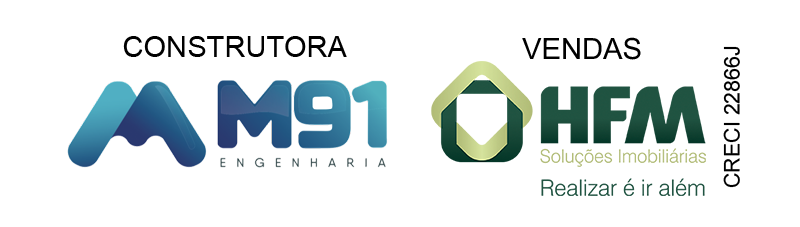
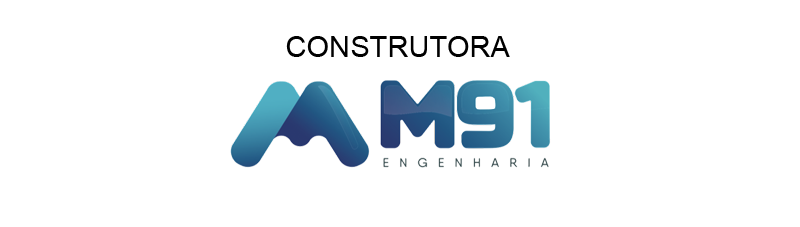
lucca 2

Changed region(s): [[0.0625, 0.1542, 0.9375, 0.8634]]

diff --git a/google.html b/google.html
@@ -137,61 +137,29 @@ a:link {
 		</div></div></header>
 			<div class="b6">
 	<div class="wrapper">
-	<h2>O Melhor Empreendimento do Fragata!</h2>
-			<h2>+de 340 Clientes Com Financiamento CAIXA Aprovado</h2></div></div>
+	<h2>Taxa condominial baixa e possibilidade de duas vagas de estacionamento? Lucca 2</h2>
+			</div></div>
 	<body>
 	<div class=cadastro></div>
 	<div class="wrapper">
 		<img src="image/site1.jpg" class="imgrest"  alt="Acesso">
-<h2>Apartamentos de dois dormitórios com vaga de estacionamento, piso laminado nos dormitórios e sala, espera para ar condicionado no quarto do casal, janelas dos dormitórios com persiana e muito mais!</h2>
 </div>
-	<div class="b6">
-	<div class="wrapper">
-	<h2>A Melhor Área de Lazer!</h3>
-</div></div>
-	<div class="wrapper">
-		<h2>2 Piscinas!</h2>
-		<img src="image/site3.jpg" class="imgrest" alt="Piscina">
-		<h2>Mini Quadra Poliesportiva</h2>
-		<img src="image/site4.jpg" class="imgrest" alt="Quadra">
-		<h2>PetPlay</h2>
-		<img src="image/site5.jpg" class="imgrest" alt="PetPlay">
-		<h2>Playgrounds!</h2>
-		<img src="image/site6.jpg" class="imgrest" alt="Playground">
-		<h2>2 Salões de Festa e 8 Quiosques com Churrasqueira</h2>
-		<img src="image/site7.jpg" class="imgrest" alt="Churrasqueira">
-		<h2>Segurança, Conforto e Muito Mais!</h2>
-				<img src="image/site9.jpg" class="imgrest" alt="Banco"></div>
-					<div class="b6">
-	<div class="wrapper">
-	<h2>Infraestrutura Inovadora</h2>
-	<h3>Condomínio com muro perimetral personalizado, castelo de água, instalação elétrica subterrânea e vagas de estacionamento para visitantes, tudo para proporcionar mais segurança e qualidade de vida para você.</h3></div></div>
-	<div class="wrapper">
-		<img src="image/site2.jpg" class="imgrest" alt="Birds Eye"></div>
-	<div class="b6">
-	<div class="wrapper">
-	<h2>Localização Privilegiada</h2>
-	<h3>Próximo às Avenidas Pinheiro Machado e Theodoro Muller, o Residencial Lucca permite fácil acesso a todas regiões do bairro e da cidade.</h3></div></div>
 
-	<div class="wrapper">
-		<img src="image/site8.jpg" class="imgrest" alt="Aérea">
-		<img src="image/mapa.jpg" class="imgrest" alt="Aérea">
-</div>
 	<div class="b7">
 	<div class="wrapper">
-	<h2>Fácil de Comprar, Fácil de Pagar!</h2>
-	<h3>Você pode utilizar todos os benefícios da faixa 1,5 do Programa Minha Casa Minha Vida. Com isso você compra com subsídio de até R$36.945,00, com a menor prestação do mercado e ainda pode usar seu FGTS. De acordo com as regras do PMCMV, CCFGTS e CAIXA.</h3></div></div>
+	<h2>Depois de 360 apartamentos vendidos no Lucca 1, em breve lançamento de 420 unidades Lucca 2!</h2>
+</div></div>
 	    <a name="A"></a>
 	<div class="b3">
 	<div class="wrapper">
-  	    <h2>Cadastre-se Aqui</h2>
-        <form action="https://docs.google.com/forms/d/e/1FAIpQLSfkIGNy_QFb6BUVovZOVRh0slPNEqMnDF9hZbVR8gipBgCmug/formResponse">
+  	    <h2>Cadastre-se e Antecipe-se ao Lançamento</h2>
+            <form action="https://docs.google.com/forms/d/e/1FAIpQLSfkIGNy_QFb6BUVovZOVRh0slPNEqMnDF9hZbVR8gipBgCmug/formResponse">
       <input name="entry.1946580253" type="text" id="nome" placeholder="Nome" required="true"/><br>
       <input name="entry.129915879" type="text" id="email" placeholder="Email" required="true"/><br>
       <input name="entry.1530126000" type="text" id="telefone" placeholder="Telefone" required="true"/><br>
       <input class="button" onclick="return gtag_report_conversion()" id="botaocadastro" type="submit" value="Enviar">
     </form>
-		<!--<img src="image/m91.png" class="imgrest" alt="Aérea"># -->
+		<img src="image/m91.png" class="imgrest" alt="Aérea">
 		  <a href="http://www.facebook.com/luccafragata"><h2>Clique aqui e acesse a página do Lucca no Facebook!</h2></a>
     </div></div>
     </div>
@@ -199,10 +167,10 @@ a:link {
     </body>
 	<div class="b4">
 	<div class="wrapper">
-	<h2>Visite o decorado na Rua Félix da Cunha, 680 (Esquina Rua General Neto) ou ligue 3028-4545</h2>
+	<h2>Visite o Plantão na Rua Félix da Cunha, 680 (Esquina Rua General Neto) ou ligue 3028-4545</h2>
 	</div></div>
 	<div class="b5">
 	<div class="wrapper">
-	<p style="font-size:16px;line-height:110%;text-align:justify;text-justify:inter-word;color:white">Todas as imagens constantes das peças publicitárias do empreendimento são meramente ilustrativas. Registro de Incorporação Imobiliária 92.662.</p></div></div>
+	<p style="font-size:16px;line-height:110%;text-align:justify;text-justify:inter-word;color:white">Todas as imagens constantes das peças publicitárias do empreendimento são meramente ilustrativas. R.I. 92.660.</p></div></div>
 	</article>
 	<button id="espaco" type="button">Clique e Cadastre-se</button>

diff --git a/index.html b/index.html
@@ -137,60 +137,28 @@ a:link {
 		</div></div></header>
 			<div class="b6">
 	<div class="wrapper">
-	<h2>O Melhor Empreendimento do Fragata!</h2>
-			<h2>+de 340 Clientes Com Financiamento CAIXA Aprovado</h2></div></div>
+	<h2>Taxa condominial baixa e possibilidade de duas vagas de estacionamento? Lucca 2</h2>
+			</div></div>
 	<body>
 	<div class=cadastro></div>
 	<div class="wrapper">
 		<img src="image/site1.jpg" class="imgrest"  alt="Acesso">
-<h2>Apartamentos de dois dormitórios com vaga de estacionamento, piso laminado nos dormitórios e sala, espera para ar condicionado no quarto do casal, janelas dos dormitórios com persiana e muito mais!</h2>
 </div>
-	<div class="b6">
-	<div class="wrapper">
-	<h2>A Melhor Área de Lazer!</h3>
-</div></div>
-	<div class="wrapper">
-		<h2>2 Piscinas!</h2>
-		<img src="image/site3.jpg" class="imgrest" alt="Piscina">
-		<h2>Mini Quadra Poliesportiva</h2>
-		<img src="image/site4.jpg" class="imgrest" alt="Quadra">
-		<h2>PetPlay</h2>
-		<img src="image/site5.jpg" class="imgrest" alt="PetPlay">
-		<h2>Playgrounds!</h2>
-		<img src="image/site6.jpg" class="imgrest" alt="Playground">
-		<h2>2 Salões de Festa e 8 Quiosques com Churrasqueira</h2>
-		<img src="image/site7.jpg" class="imgrest" alt="Churrasqueira">
-		<h2>Segurança, Conforto e Muito Mais!</h2>
-				<img src="image/site9.jpg" class="imgrest" alt="Banco"></div>
-					<div class="b6">
-	<div class="wrapper">
-	<h2>Infraestrutura Inovadora</h2>
-	<h3>Condomínio com muro perimetral personalizado, castelo de água, instalação elétrica subterrânea e vagas de estacionamento para visitantes, tudo para proporcionar mais segurança e qualidade de vida para você.</h3></div></div>
-	<div class="wrapper">
-		<img src="image/site2.jpg" class="imgrest" alt="Birds Eye"></div>
-	<div class="b6">
-	<div class="wrapper">
-	<h2>Localização Privilegiada</h2>
-	<h3>Próximo às Avenidas Pinheiro Machado e Theodoro Muller, o Residencial Lucca permite fácil acesso a todas regiões do bairro e da cidade.</h3></div></div>
 
-	<div class="wrapper">
-		<img src="image/site8.jpg" class="imgrest" alt="Aérea">
-		<img src="image/mapa.jpg" class="imgrest" alt="Aérea">
-</div>
 	<div class="b7">
 	<div class="wrapper">
-	<h2>Fácil de Comprar, Fácil de Pagar!</h2>
-	<h3>Você pode utilizar todos os benefícios da faixa 1,5 do Programa Minha Casa Minha Vida. Com isso você compra com subsídio de até R$36.945,00, com a menor prestação do mercado e ainda pode usar seu FGTS. De acordo com as regras do PMCMV, CCFGTS e CAIXA.</h3></div></div>
+	<h2>Depois de 360 apartamentos vendidos no Lucca 1, em breve lançamento de 420 unidades Lucca 2!</h2>
+</div></div>
 	    <a name="A"></a>
 	<div class="b3">
 	<div class="wrapper">
-  	    <h2>Cadastre-se Aqui</h2>
+  	    <h2>Cadastre-se e Antecipe-se ao Lançamento</h2>
     <form action="https://docs.google.com/forms/d/e/1FAIpQLSe8fqotVcm8UtgjmqoYkySrH8Rnn09OoHU1tTLmIWl8lyQbjw/formResponse">
       <input name="entry.1946580253" type="text" id="nome" placeholder="Nome" required="true"/><br>
       <input name="entry.129915879" type="text" id="email" placeholder="Email" required="true"/><br>
       <input name="entry.1530126000" type="text" id="telefone" placeholder="Telefone" required="true"/><br>
       <input class="button" onclick="return gtag_report_conversion()" id="botaocadastro" type="submit" value="Enviar">    </form>
-		<!--<img src="image/m91.png" class="imgrest" alt="Aérea"># -->
+		<img src="image/m91.png" class="imgrest" alt="Aérea">
 		  <a href="http://www.facebook.com/luccafragata"><h2>Clique aqui e acesse a página do Lucca no Facebook!</h2></a>
     </div></div>
     </div>
@@ -198,10 +166,10 @@ a:link {
     </body>
 	<div class="b4">
 	<div class="wrapper">
-	<h2>Visite o decorado na Rua Félix da Cunha, 680 (Esquina Rua General Neto) ou ligue 3028-4545</h2>
+	<h2>Visite o Plantão na Rua Félix da Cunha, 680 (Esquina Rua General Neto) ou ligue 3028-4545</h2>
 	</div></div>
 	<div class="b5">
 	<div class="wrapper">
-	<p style="font-size:16px;line-height:110%;text-align:justify;text-justify:inter-word;color:white">Todas as imagens constantes das peças publicitárias do empreendimento são meramente ilustrativas. Registro de Incorporação Imobiliária 92.662.</p></div></div>
+	<p style="font-size:16px;line-height:110%;text-align:justify;text-justify:inter-word;color:white">Todas as imagens constantes das peças publicitárias do empreendimento são meramente ilustrativas. R.I. 92.660.</p></div></div>
 	</article>
 	<button id="espaco" type="button">Clique e Cadastre-se</button>
